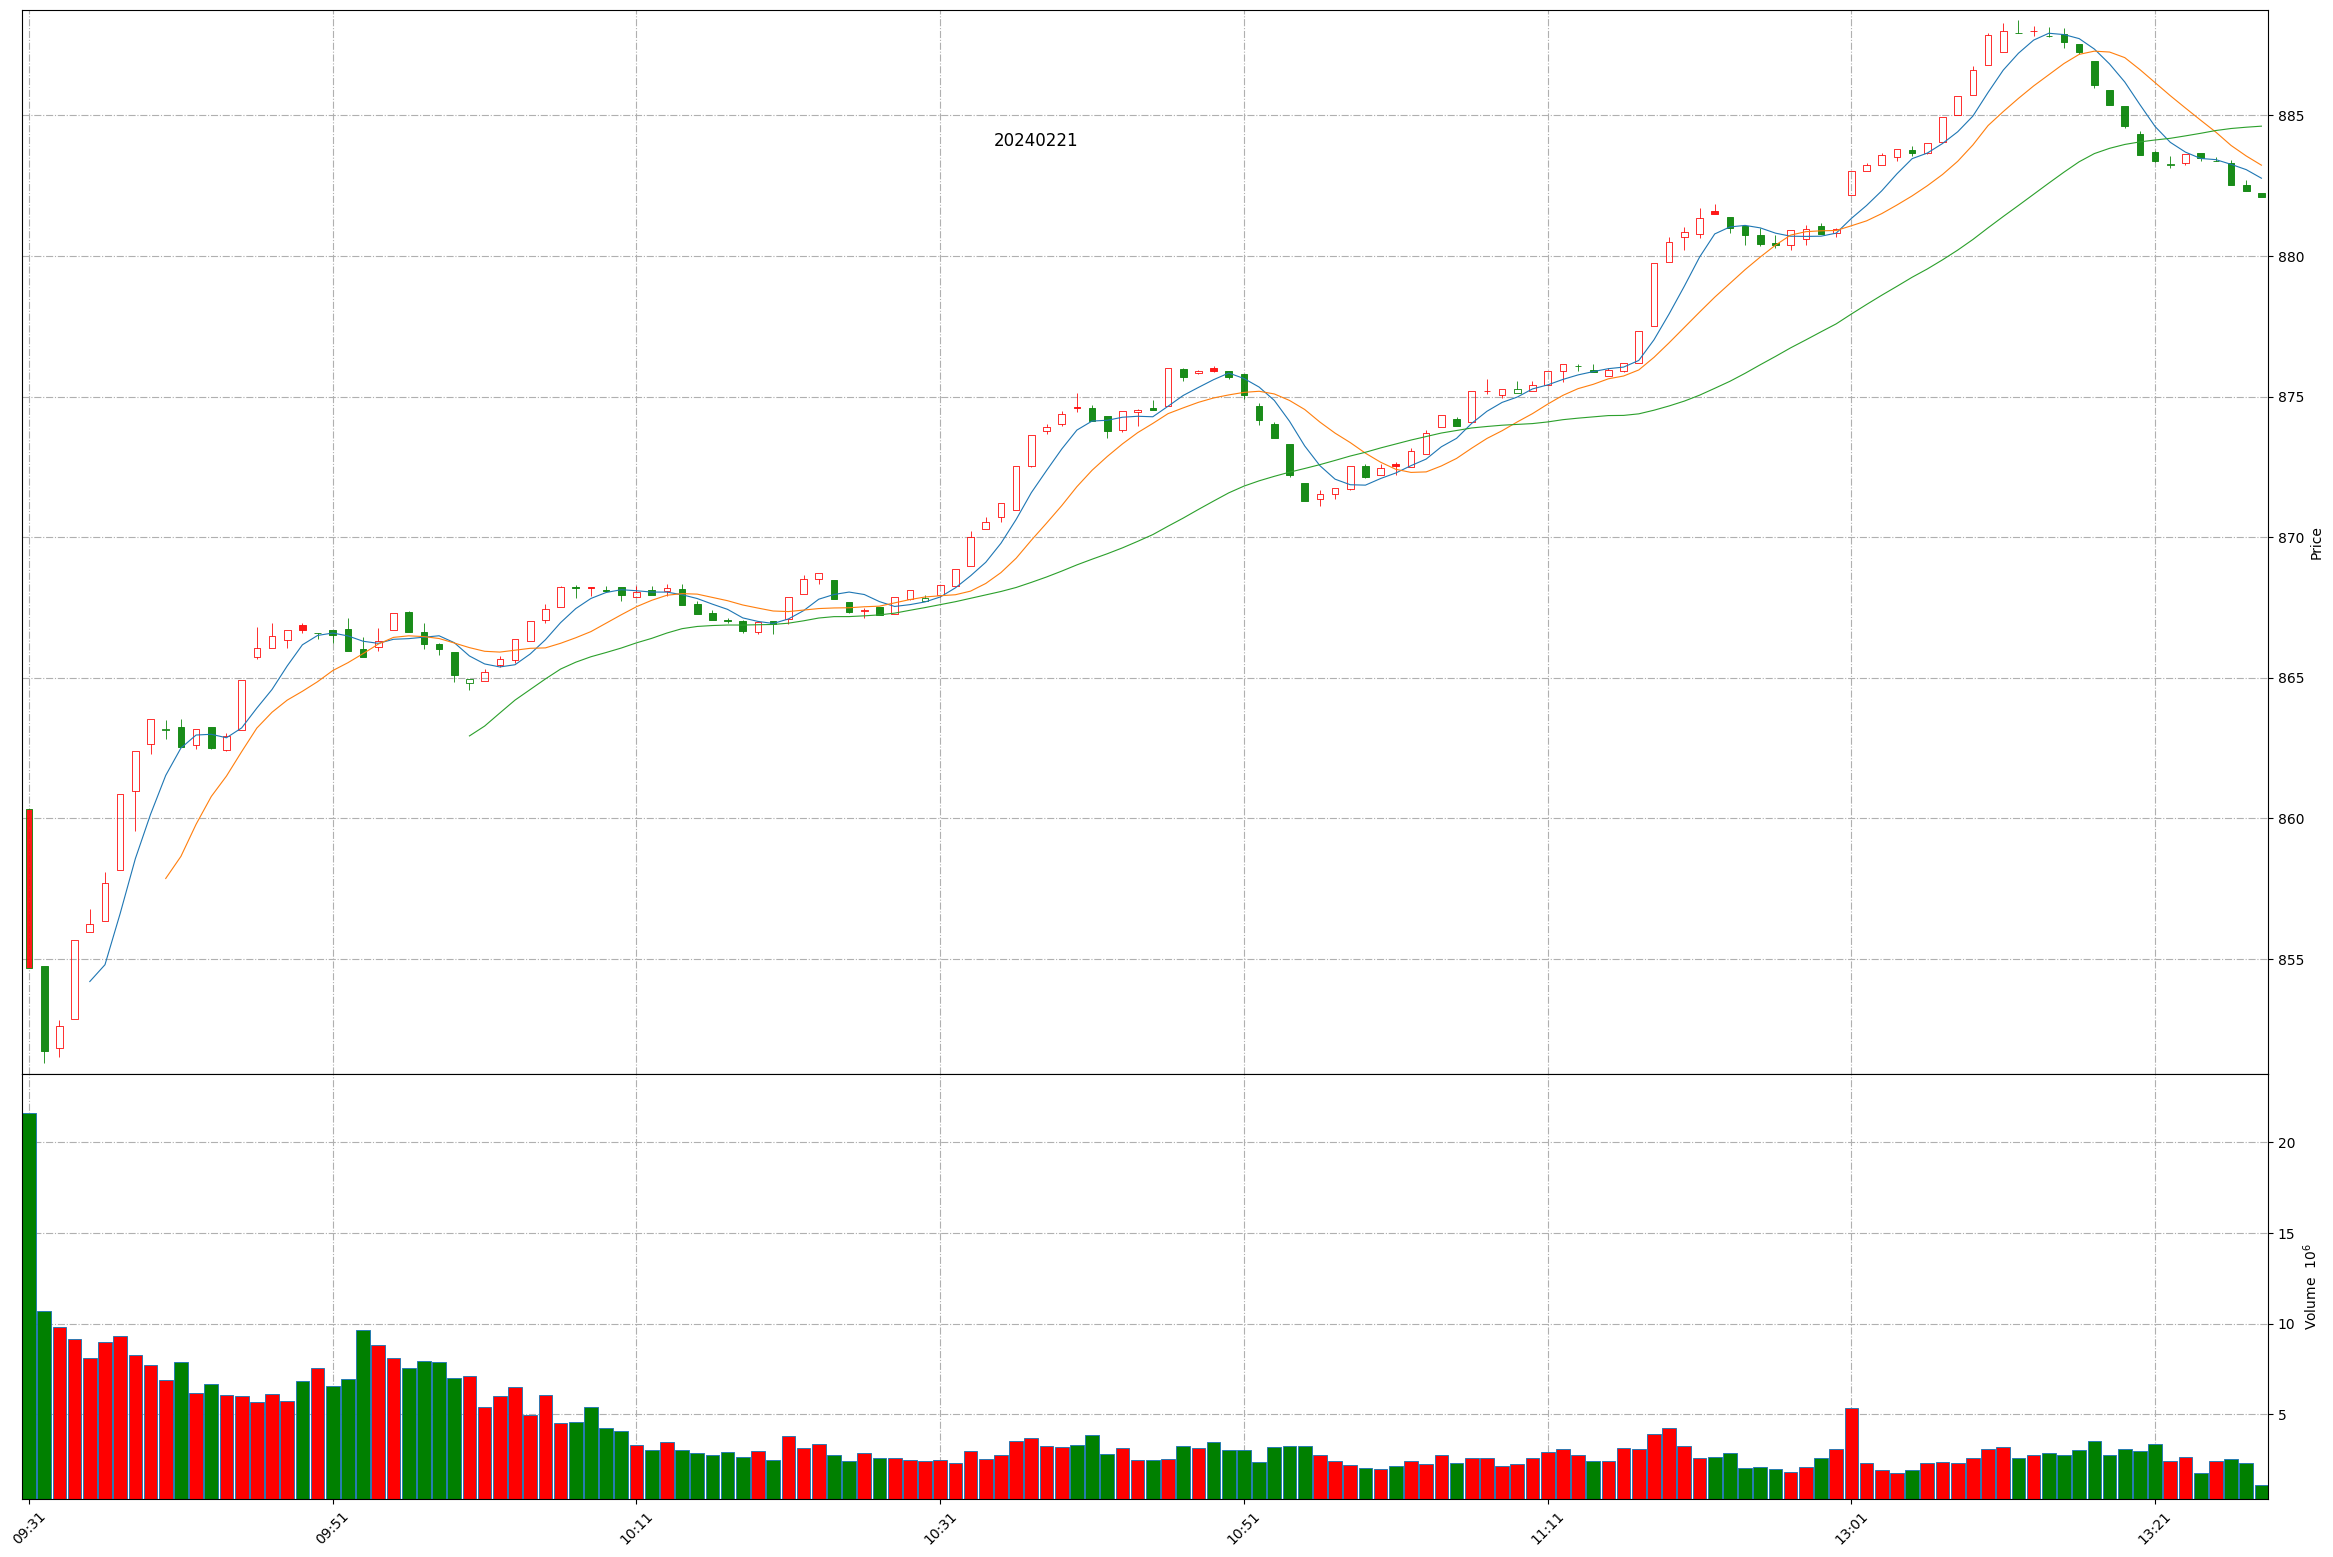
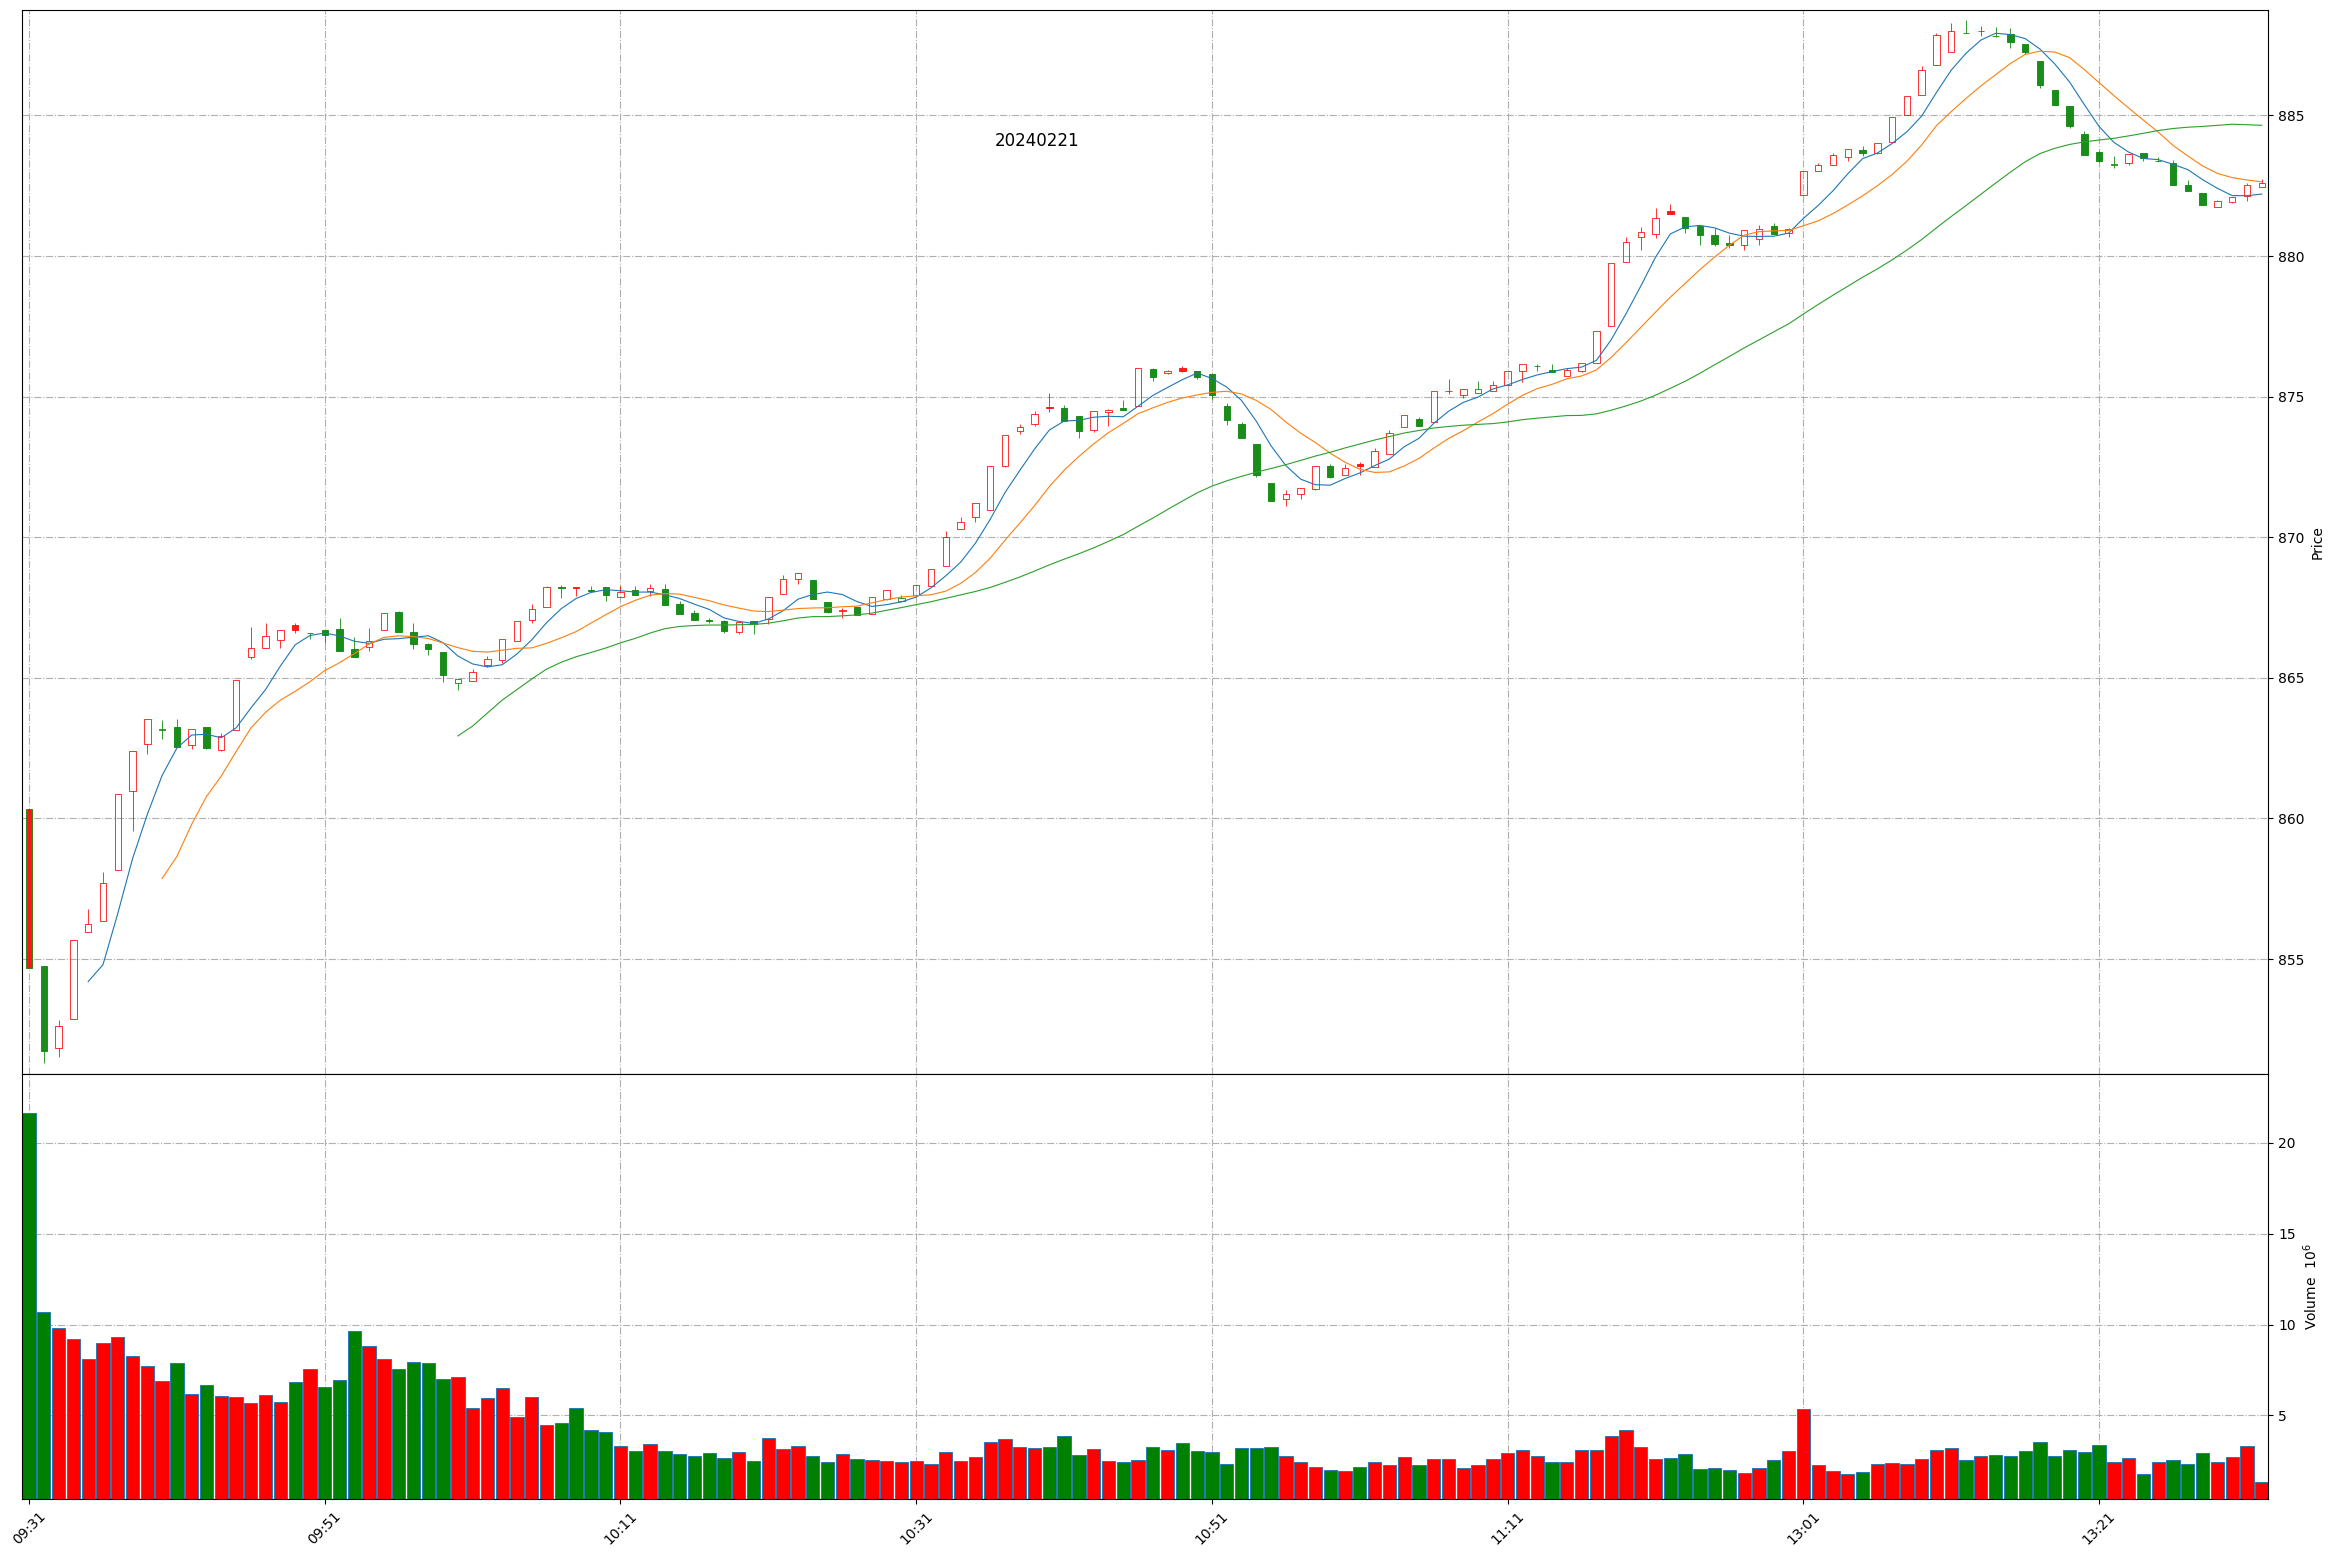
Github action update at 2024-02-21 13:31:43.

diff --git a/README.md b/README.md
@@ -1,11 +1,11 @@
 
 # Daily-A-share-market-quotes 每日 A 股指数（5min 更新）- 20240221
 
-### 上证指数 20240221 13:27
+### 上证指数 20240221 13:31
 ![](./fig/2024/2/20240221-sh000001.png)
 
-### 深证成指 20240221 13:27
+### 深证成指 20240221 13:31
 ![](./fig/2024/2/20240221-sz399001.png)
 
-### 北证50 20240221 13:27
+### 北证50 20240221 13:31
 ![](./fig/2024/2/20240221-bj899050.png)
